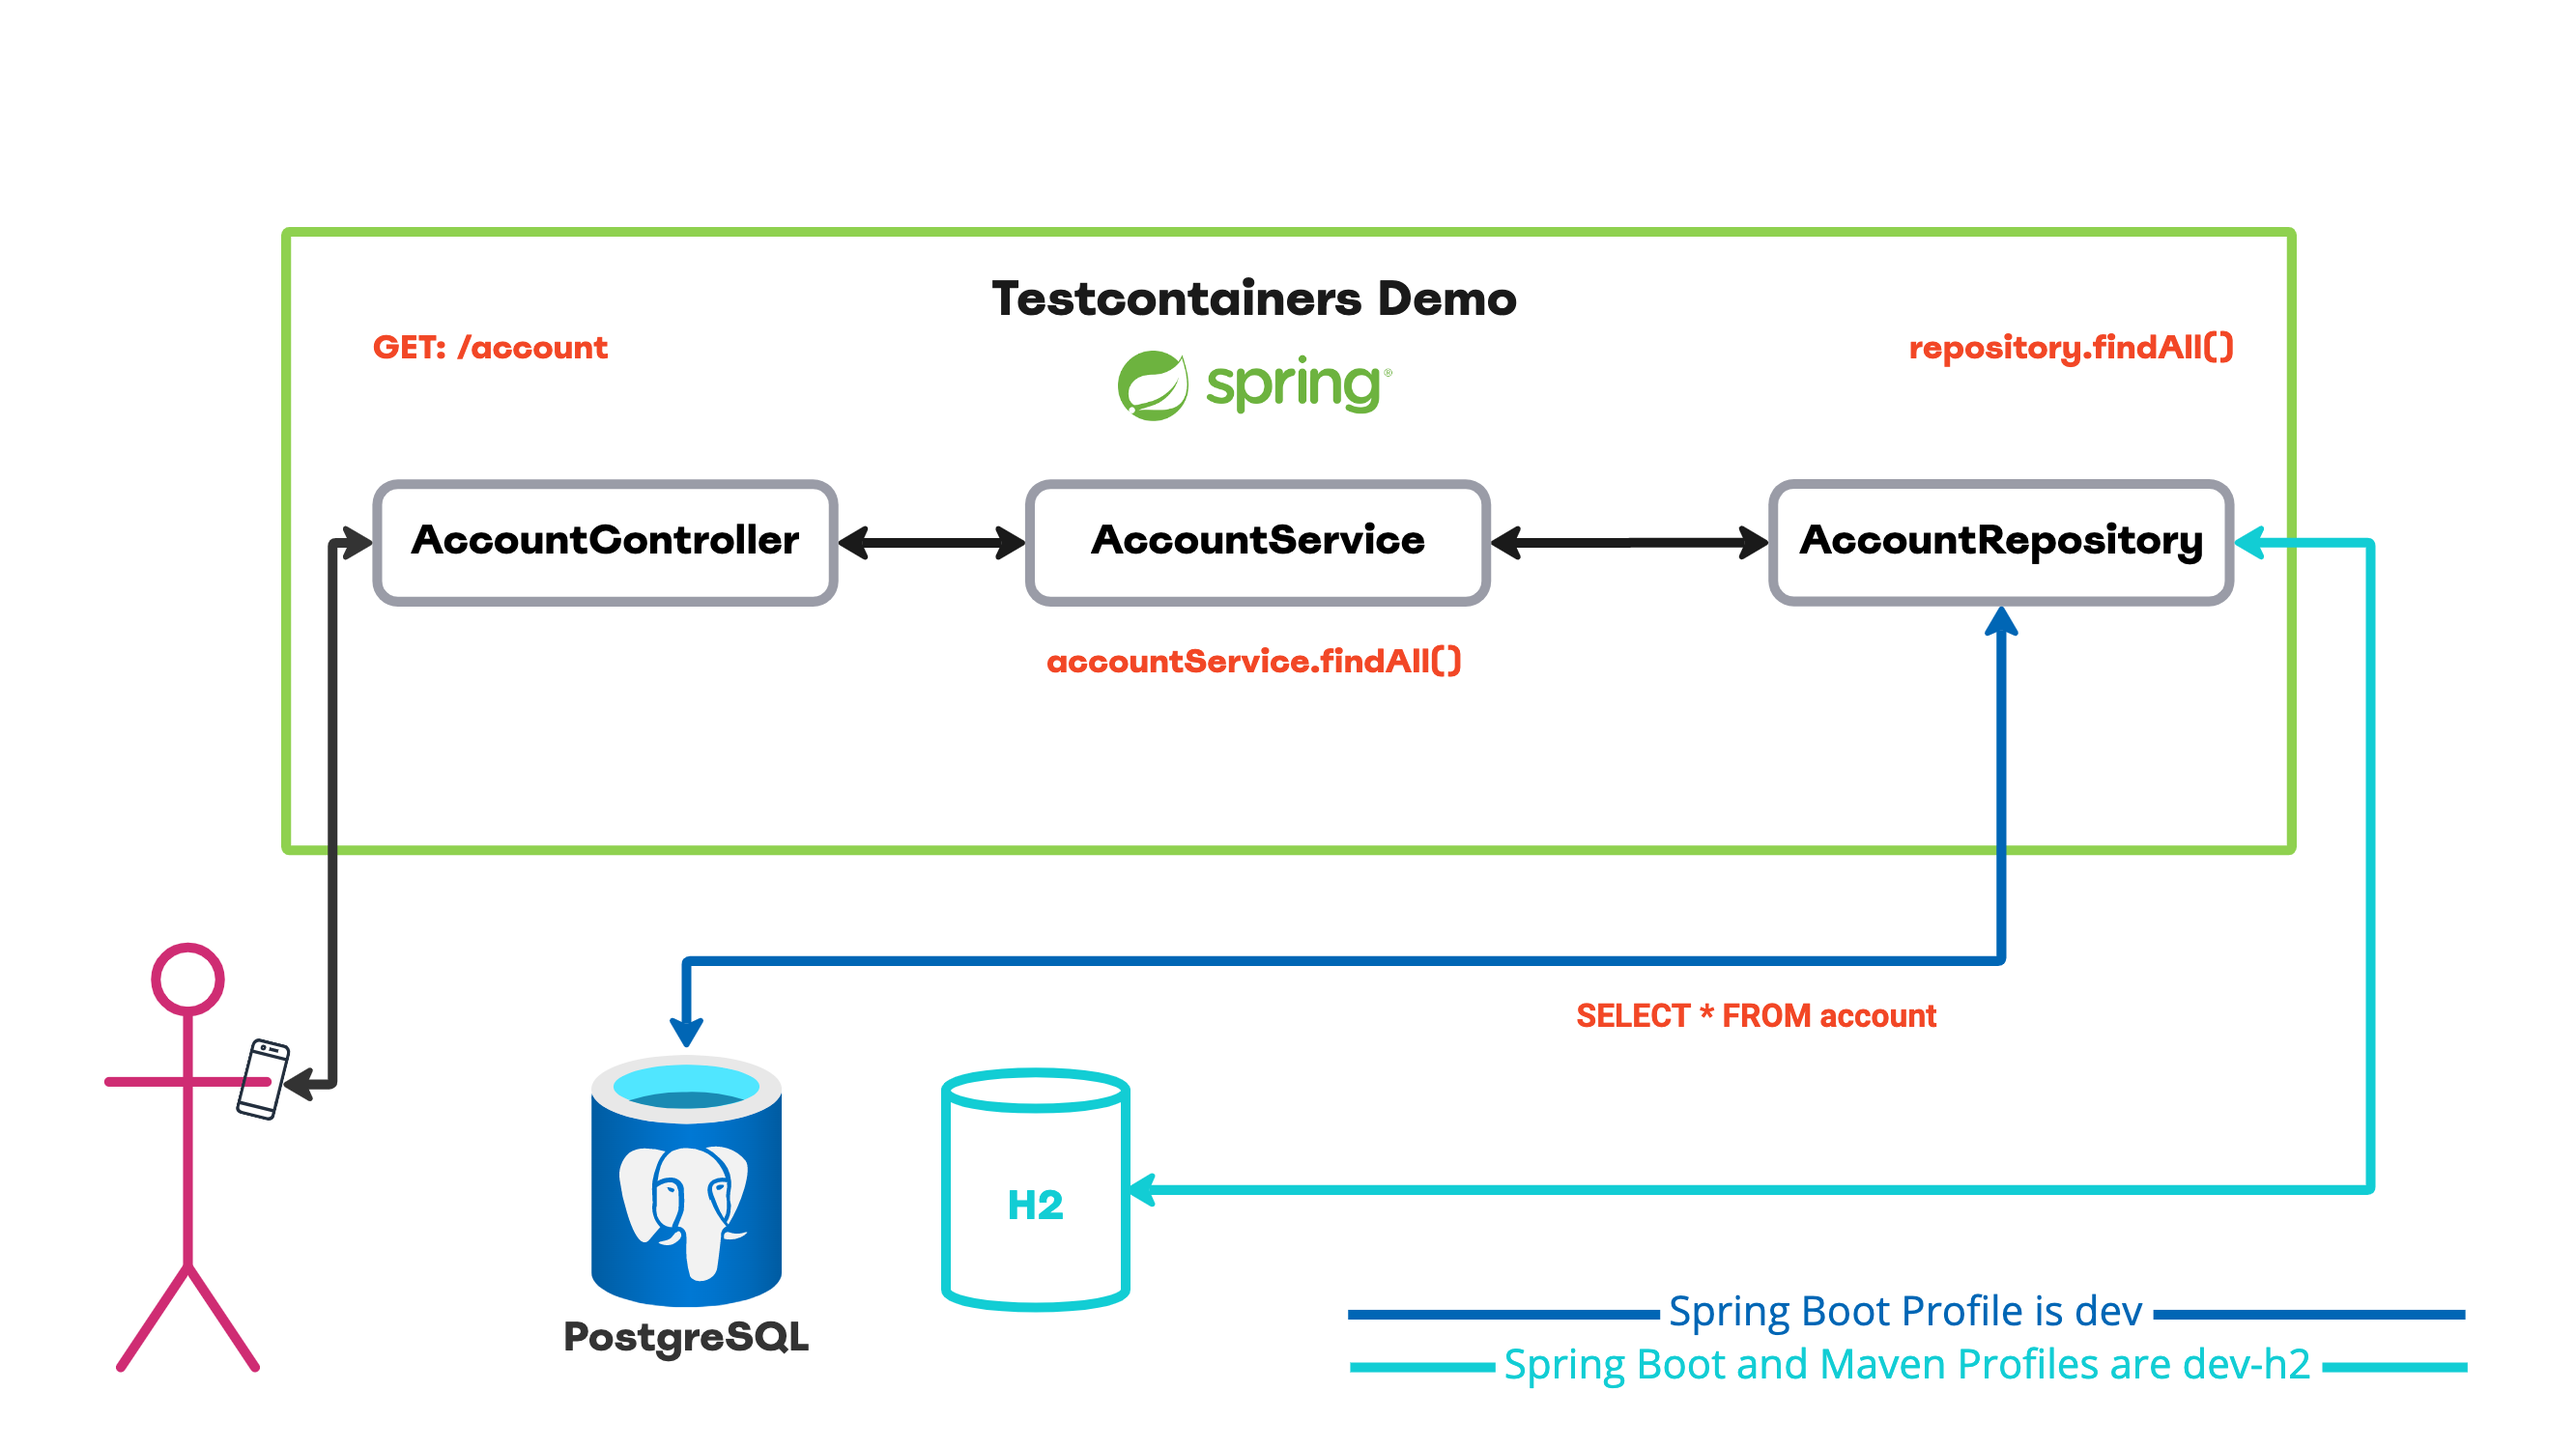
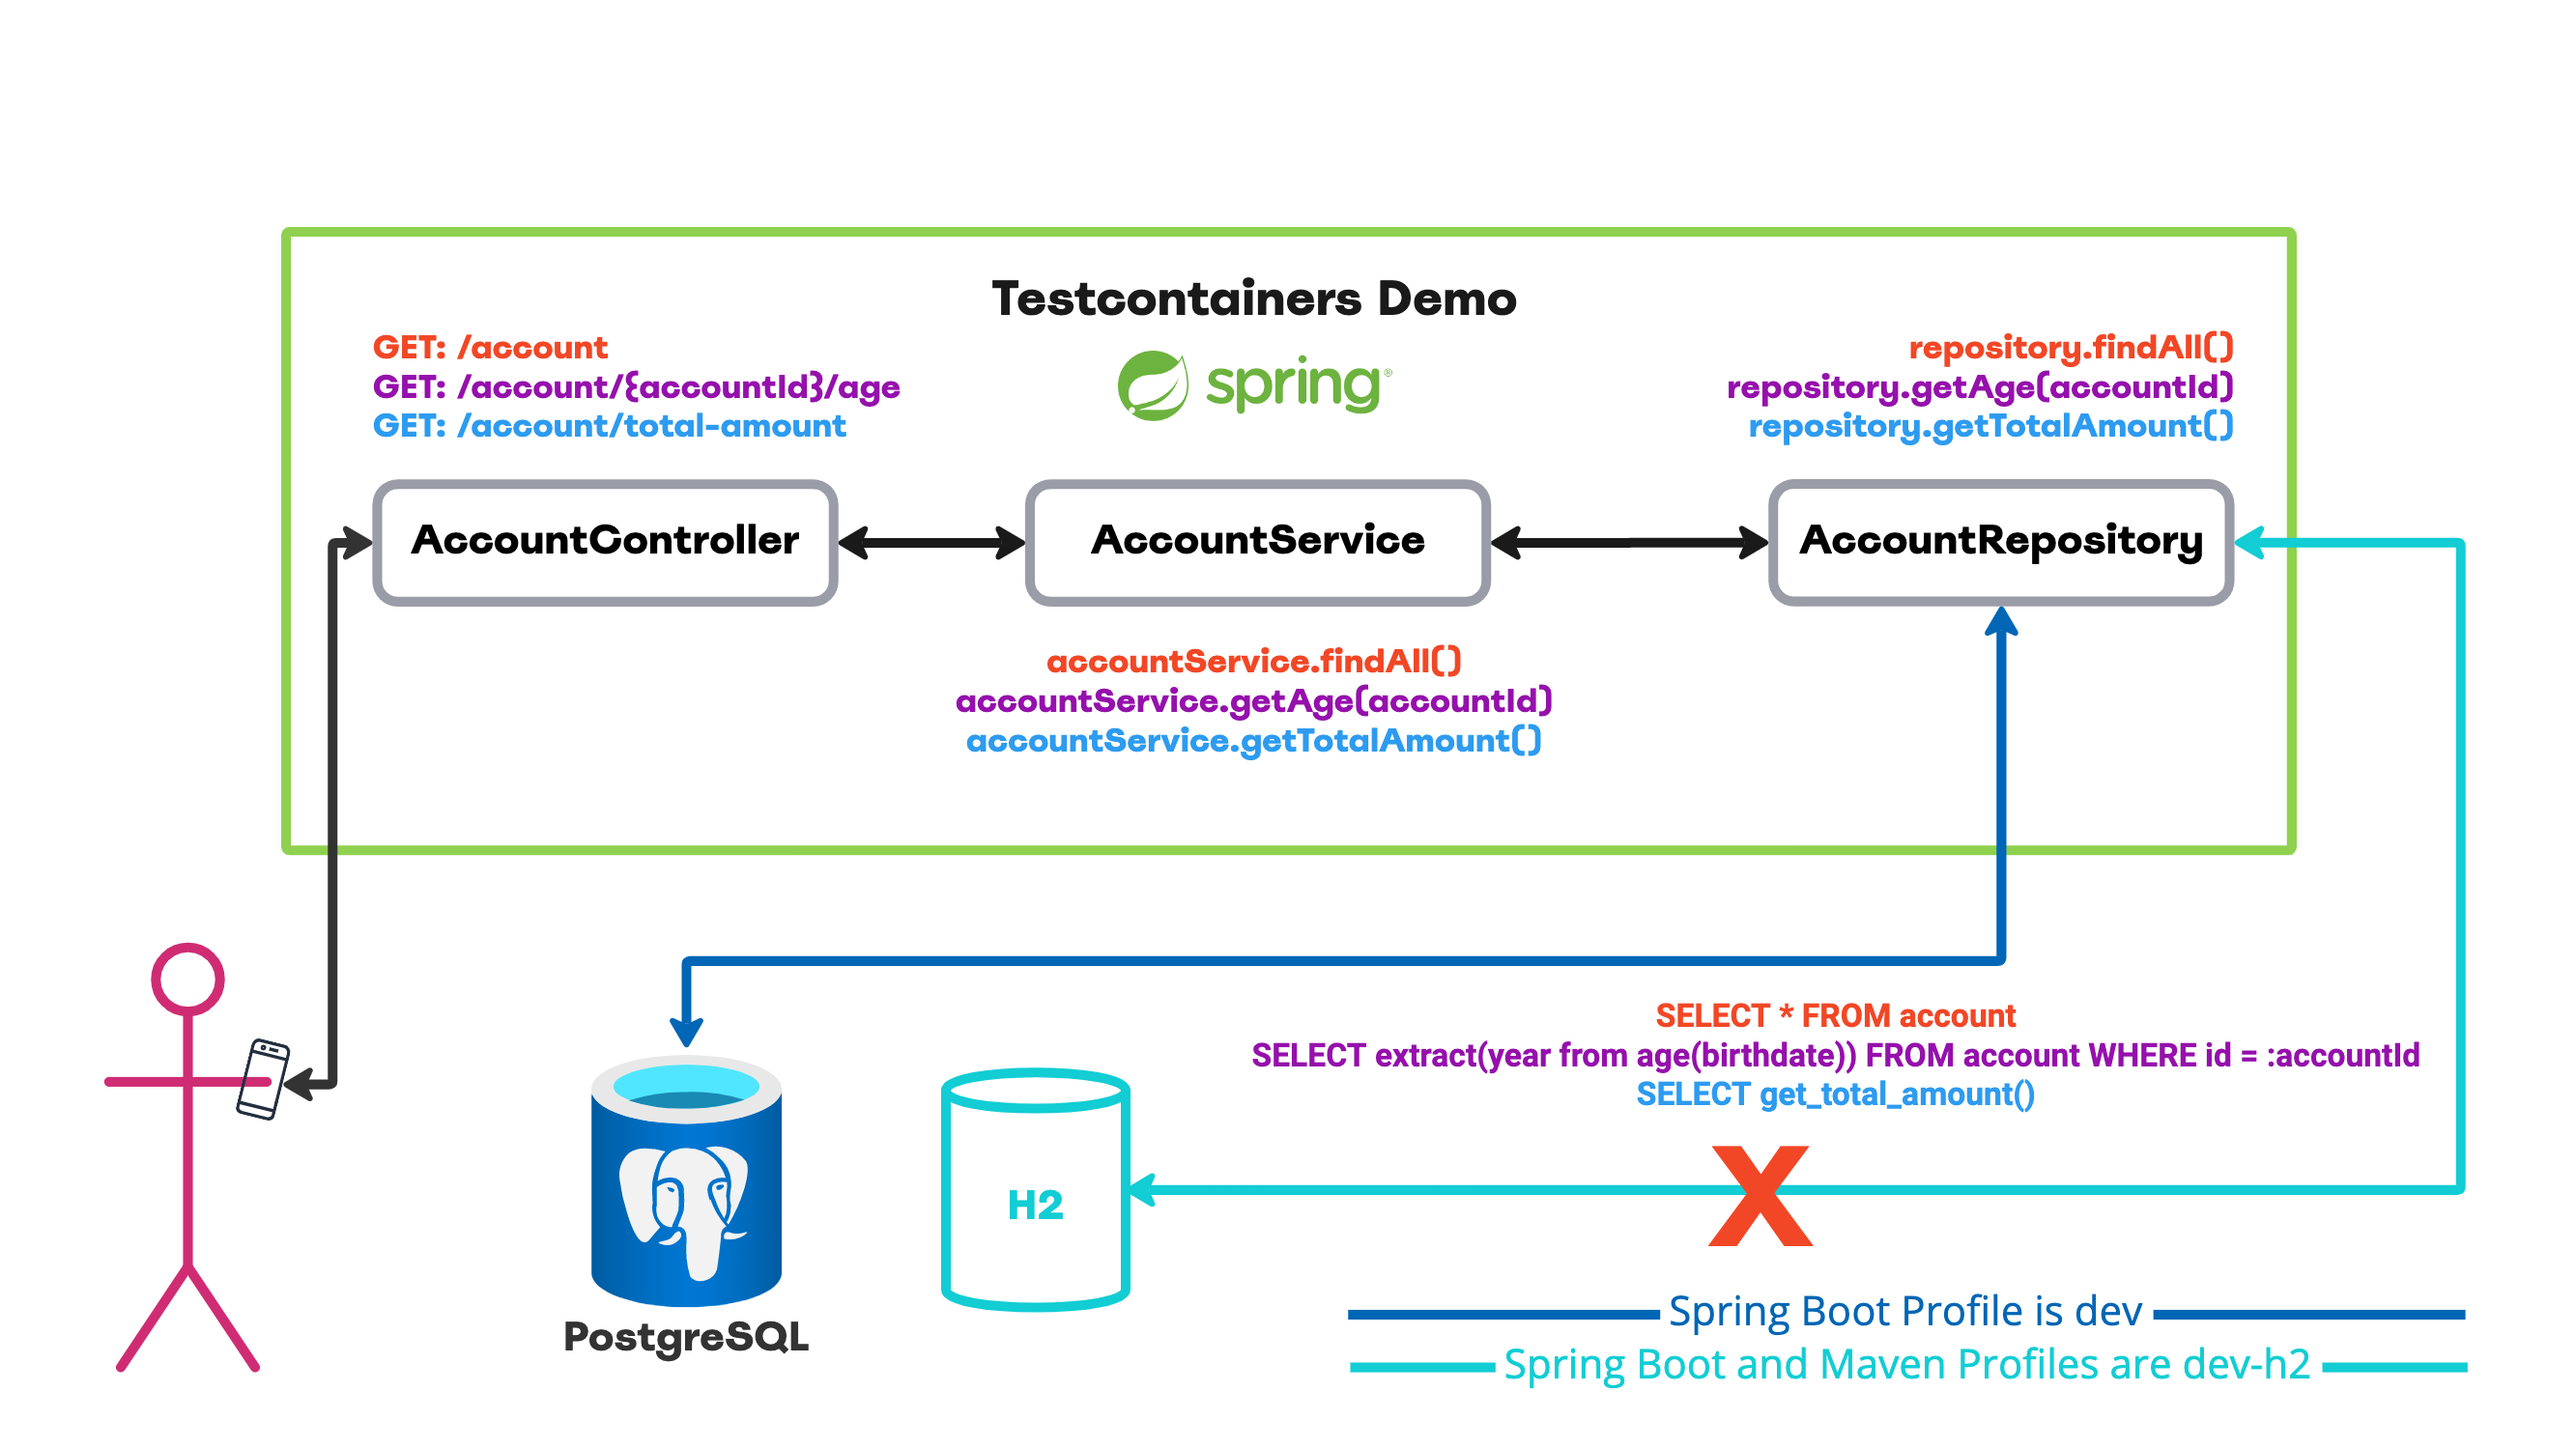
Add getAge and getTotalAmount

diff --git a/src/main/java/com/github/yusufugurozbek/testcontainersdemo/AccountController.java b/src/main/java/com/github/yusufugurozbek/testcontainersdemo/AccountController.java
@@ -2,8 +2,10 @@ package com.github.yusufugurozbek.testcontainersdemo;
 
 import org.springframework.beans.factory.annotation.Autowired;
 import org.springframework.web.bind.annotation.GetMapping;
+import org.springframework.web.bind.annotation.PathVariable;
 import org.springframework.web.bind.annotation.RestController;
 
+import java.math.BigDecimal;
 import java.util.List;
 
 @RestController
@@ -19,6 +21,16 @@ public class AccountController {
     @GetMapping("/account")
     List<Account> findAll() {
         return accountService.findAll();
+    }
+
+    @GetMapping("/account/{accountId}/age")
+    int getAge(@PathVariable long accountId) {
+        return accountService.getAge(accountId);
+    }
+
+    @GetMapping("/account/total-amount")
+    BigDecimal getTotalAmount() {
+        return accountService.getTotalAmount();
     }
 
 }

diff --git a/src/main/java/com/github/yusufugurozbek/testcontainersdemo/AccountServiceImpl.java b/src/main/java/com/github/yusufugurozbek/testcontainersdemo/AccountServiceImpl.java
@@ -3,6 +3,7 @@ package com.github.yusufugurozbek.testcontainersdemo;
 import org.springframework.beans.factory.annotation.Autowired;
 import org.springframework.stereotype.Service;
 
+import java.math.BigDecimal;
 import java.util.List;
 
 @Service
@@ -18,6 +19,16 @@ public class AccountServiceImpl implements AccountService {
     @Override
     public List<Account> findAll() {
         return repository.findAll();
+    }
+
+    @Override
+    public int getAge(long accountId) {
+        return repository.getAgeById(accountId);
+    }
+
+    @Override
+    public BigDecimal getTotalAmount() {
+        return repository.getTotalAmount();
     }
 
 }

diff --git a/src/main/java/com/github/yusufugurozbek/testcontainersdemo/AccountRepository.java b/src/main/java/com/github/yusufugurozbek/testcontainersdemo/AccountRepository.java
@@ -1,7 +1,17 @@
 package com.github.yusufugurozbek.testcontainersdemo;
 
 import org.springframework.data.jpa.repository.JpaRepository;
+import org.springframework.data.jpa.repository.Query;
+import org.springframework.data.jpa.repository.query.Procedure;
+
+import java.math.BigDecimal;
 
 public interface AccountRepository extends JpaRepository<Account, Long> {
+
+    @Query(value = "SELECT extract(year from age(birthdate)) FROM account WHERE  id = :accountId", nativeQuery = true)
+    int getAgeById(long accountId);
+
+    @Procedure(value = "get_total_amount")
+    BigDecimal getTotalAmount();
 
 }

diff --git a/src/main/java/com/github/yusufugurozbek/testcontainersdemo/AccountService.java b/src/main/java/com/github/yusufugurozbek/testcontainersdemo/AccountService.java
@@ -1,9 +1,14 @@
 package com.github.yusufugurozbek.testcontainersdemo;
 
+import java.math.BigDecimal;
 import java.util.List;
 
 public interface AccountService {
 
     List<Account> findAll();
+
+    int getAge(long accountId);
+
+    BigDecimal getTotalAmount();
 
 }

diff --git a/README.md b/README.md
@@ -14,3 +14,5 @@ Testcontainers"** talk.
 #### Local links
 
 - List all accounts: http://localhost:3333/account
+- Get age: http://localhost:3333/account/{accountId}/age
+- Get total amount of all accounts: http://localhost:3333/account/total-amount
